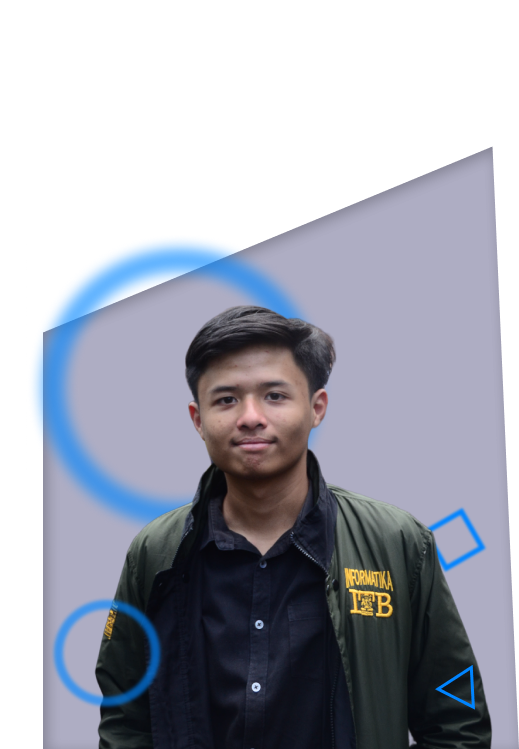
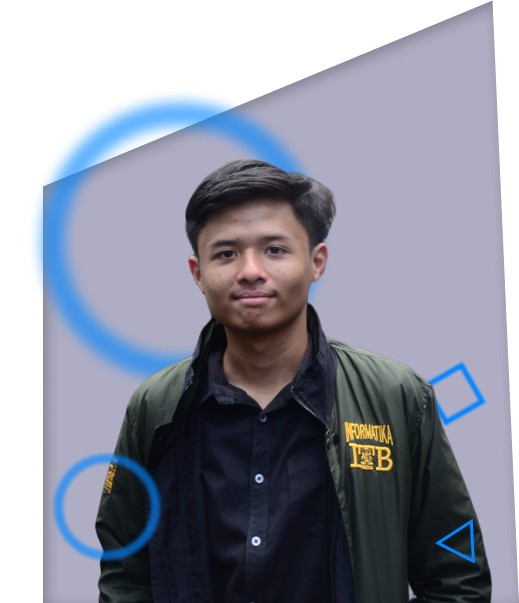
fix About Us UI

diff --git a/src/cbir_web/pages/templates/pages/about_us.html b/src/cbir_web/pages/templates/pages/about_us.html
@@ -6,22 +6,37 @@ rel="stylesheet" href="{% static "pages/about_us.css" %}"> {% endblock style %}
     <div class="aboutus">
       <img src="{% static "images/logo.png" %}" alt="Logo" width="96"
       height="96">
-      <h1>About Us</h1>
+      <h1>ABOUT US</h1>
     </div>
   </div>
 
   <div class="profile_container">
-    <div>
-      <img src="{% static "images/PP Shafiq.png" width 400 %}" alt="Logo">
-      <div>"Stress dikit ga ngaruh"</div>
+    <div class="info">
+      <img src="{% static "images/PP Shafiq.png"%}" alt="Shafiq Irvansyag"
+      width= "400">
+      <div class="isi">
+        <div>13522003</div>
+        <div>Shafiq Irvansyah</div>
+        <div>"Stress dikit ga ngaruh"</div>
+      </div>
     </div>
-    <div>
-      <img src="{% static "images/PP Ucup.png" %}" alt="Logo">
-      <div>"Bismillah ga mokad"</div>
+    <div class="info" id="ucup">
+      <img src="{% static "images/PP Ucup.png" %}" alt="Yusuf A.S." width=
+      "400">
+      <div class="isi">
+        <div>13522015</div>
+        <div>Yusuf Ardian Sandi</div>
+        <div>"Bismillah ga mokad"</div>
+      </div>
     </div>
-    <div>
-      <img src="{% static "images/PP Bacin.png" %}" alt="Logo">
-      <div>"Ambatukaaaaaam"</div>
+    <div class="info">
+      <img src="{% static "images/PP Bacin.png" %}" alt="Ahmad Naufal" width=
+      "400">
+      <div class="isi">
+        <div>13522005</div>
+        <div>Ahmad Naufal Ramadan</div>
+        <div>"Ambatukaaaaaam"</div>
+      </div>
     </div>
   </div>
 </div>

diff --git a/src/cbir_web/pages/static/pages/about_us.css b/src/cbir_web/pages/static/pages/about_us.css
@@ -3,16 +3,37 @@
     justify-content: center;
 }
 
+h1{
+    filter: drop-shadow(3px 3px 3px #1a1a1a);
+}
+
 .aboutus{
     display: flex;
     flex-direction: column;
     align-items: center;
     color: #C6AA63;
     font-size: 30px;
+    
 }
-
-
 
 .profile_container{
     display: flex;
+    justify-content: space-evenly;
+    padding-bottom: 50px;
+}
+
+.isi{
+    text-align: center;
+    font-weight:600;
+    filter: drop-shadow(1px 1px 1px #1a1a1a);
+}
+
+.info{
+    display: flex;
+    flex-direction: column;
+    justify-content: flex-end;
+}
+
+#ucup{
+    padding-bottom: 100px;
 }
